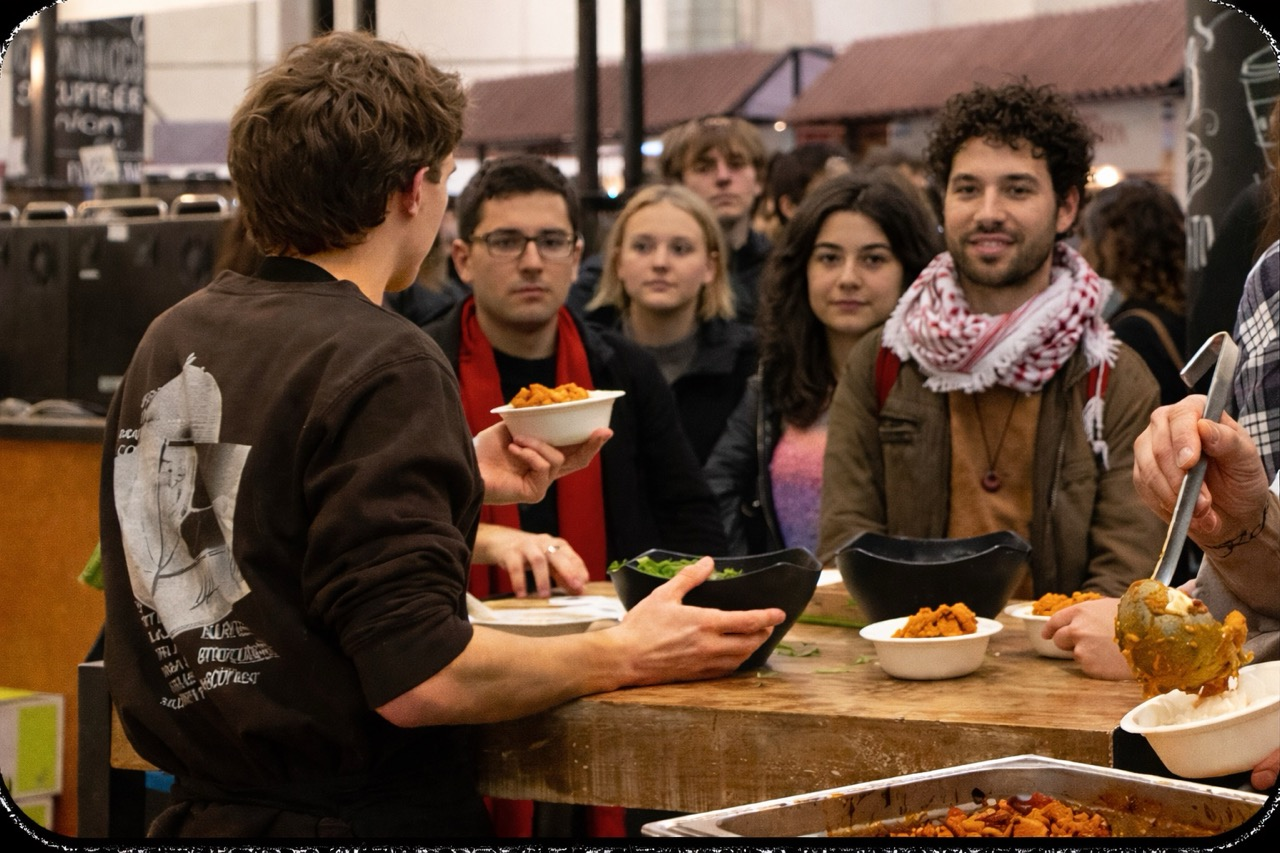
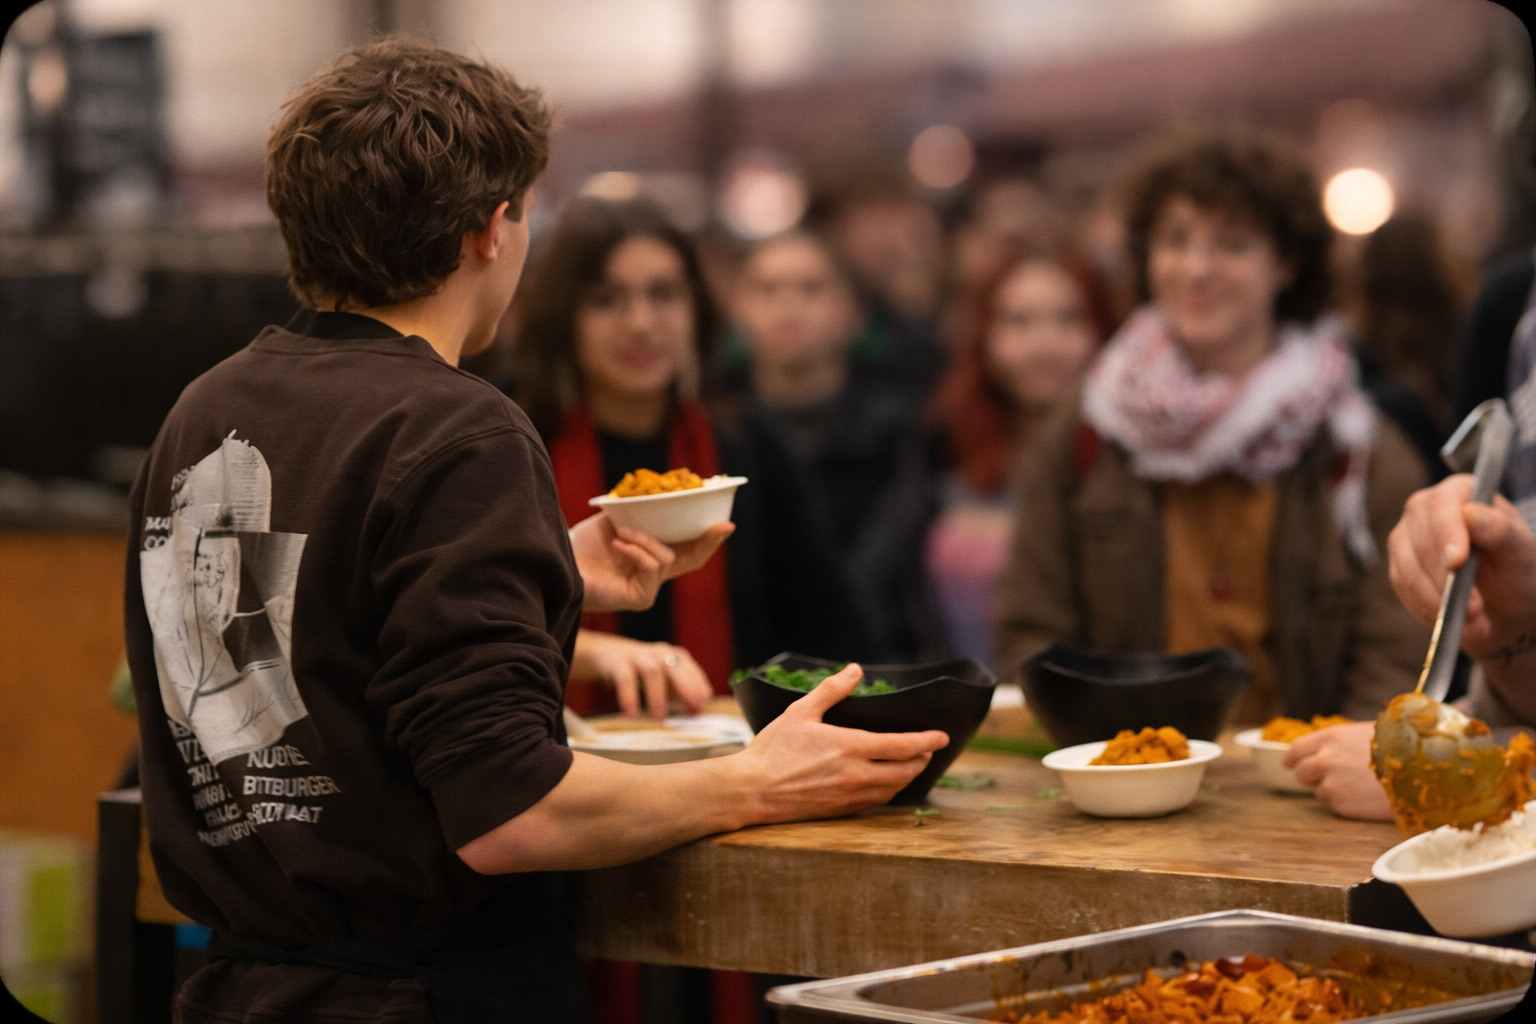
Switch gallery to next/image and update about image styling

diff --git a/components/FloatingImageGallery.jsx b/components/FloatingImageGallery.jsx
@@ -1,10 +1,52 @@
 "use client";
 
+import Image from "next/image";
 import { useSpring, motion, useScroll, useTransform } from "framer-motion";
 import { useRef } from "react";
 import AnimatedText from "./General/AnimatedText";
 
 const springConfig = { stiffness: 100, damping: 30, restDelta: 0.001 };
+const fallbackImageSize = { width: 600, height: 800 };
+
+const imageSizeMap = {
+  "/img/catering/floatingimagegallery/5A.jpeg": { width: 480, height: 640 },
+  "/img/catering/floatingimagegallery/5B.jpeg": { width: 480, height: 640 },
+  "/img/catering/floatingimagegallery/5C.jpeg": { width: 480, height: 640 },
+  "/img/catering/floatingimagegallery/5C2.jpeg": { width: 640, height: 411 },
+  "/img/catering/floatingimagegallery/5D.jpeg": { width: 480, height: 640 },
+  "/img/catering/floatingimagegallery/5E.jpeg": { width: 480, height: 640 },
+  "/img/catering/floatingimagegallery/5F.jpeg": { width: 640, height: 480 },
+  "/img/catering/floatingimagegallery/5G.jpeg": { width: 640, height: 427 },
+  "/img/catering/floatingimagegallery/5H.jpeg": { width: 640, height: 485 },
+  "/img/catering/floatingimagegallery/5H2.jpeg": { width: 360, height: 640 },
+  "/img/catering/floatingimagegallery/5I.jpeg": { width: 480, height: 640 },
+  "/img/landing/floatingimagegallery/fanni.jpeg": { width: 480, height: 640 },
+  "/img/landing/floatingimagegallery/luis_leo.jpeg": {
+    width: 413,
+    height: 640,
+  },
+  "/img/landing/floatingimagegallery/noah_laura_francesco.jpeg": {
+    width: 640,
+    height: 416,
+  },
+  "https://picsum.photos/id/1015/800/500": { width: 800, height: 500 },
+  "https://picsum.photos/id/1027/400/700": { width: 400, height: 700 },
+  "https://picsum.photos/id/1035/600/600": { width: 600, height: 600 },
+  "https://picsum.photos/id/1043/500/800": { width: 500, height: 800 },
+  "https://picsum.photos/id/1052/900/500": { width: 900, height: 500 },
+  "https://picsum.photos/id/1069/600/600": { width: 600, height: 600 },
+  "https://picsum.photos/id/1074/700/450": { width: 700, height: 450 },
+  "https://picsum.photos/id/1084/450/750": { width: 450, height: 750 },
+  "https://picsum.photos/id/109/550/550": { width: 550, height: 550 },
+};
+
+function getImageSize(image) {
+  if (image.width && image.height) {
+    return { width: image.width, height: image.height };
+  }
+
+  return imageSizeMap[image.src] ?? fallbackImageSize;
+}
 
 function FloatingImageGallery({
   bgColor,
@@ -154,14 +196,25 @@ function FloatingImageGallery({
                 style={{ x: plane.x, y: plane.y }}
                 className={`pointer-events-none absolute h-screen w-screen ${plane.opacity} transform-gpu will-change-transform`}
               >
-                {plane.images.map((img, imgIndex) => (
-                  <img
-                    key={imgIndex}
-                    src={img.src}
-                    className={`pointer-events-none absolute ${img.pos} `}
-                    alt=""
-                  />
-                ))}
+                {plane.images.map((img, imgIndex) => {
+                  const { width, height } = getImageSize(img);
+
+                  return (
+                    <div
+                      key={imgIndex}
+                      className={`pointer-events-none absolute ${img.pos} overflow-hidden`}
+                      style={{ aspectRatio: `${width} / ${height}` }}
+                    >
+                      <Image
+                        src={img.src}
+                        alt={img.alt ?? ""}
+                        fill
+                        sizes="(max-width: 768px) 32vw, 18vw"
+                        className="object-cover"
+                      />
+                    </div>
+                  );
+                })}
               </motion.div>
             </motion.div>
           ))}

diff --git a/app/(frontend)/about/page.jsx b/app/(frontend)/about/page.jsx
@@ -134,7 +134,7 @@ function About() {
               A NEW CANTEEN - FOR STUDENTS, NOT PROFIT
             </h2>
             <div className="w-full flex-1 lg:hidden">
-              <div className="relative h-full w-full overflow-hidden rounded-2xl">
+              <div className="relative h-full w-full overflow-hidden rounded-4xl">
                 <img
                   src="/img/about/handingoutfood.jpeg"
                   alt="Picture showing a student handing out food"
@@ -162,7 +162,7 @@ function About() {
             </Button>
           </div>
           <div className="hidden w-full flex-1 lg:block">
-            <div className="relative h-full w-full overflow-hidden rounded-2xl">
+            <div className="relative h-full w-full overflow-hidden rounded-4xl">
               <img
                 src="/img/about/handingoutfood.jpeg"
                 alt=""
